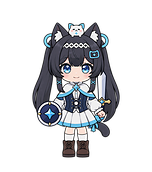
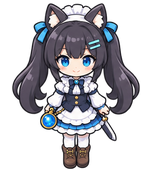
feat: cartoon slash effect and redrawn hero and companion
Presentation only; combat rules, saves and collision bodies are unchanged.

- quick slash drawn in the cartoon ink style: a crescent that sweeps open,
  holds and is eaten from its tail, speed lines, inked hit stars with chips,
  a short ground scuff, and a shorter white flash on struck enemies
- new hero and companion sprite sheets (light armour and travelling mage
  outfits, four directions): idle, walk, strike, channel and hurt poses at
  about twice the old height; the feet stay 24 below the sprite position so
  the body and every position calculation are unchanged
- actor frames stay on their own sheet textures instead of the shared atlas
- new UI avatars
- docs: docs/adventure/adventure-cel-art-2026-11-18.md and the module map

Verification: 13 related browser tests pass (slash, combat feedback,
hit-stop, sword line, raster player, art sample, rule 18, cartoon enemies).
The full suite was not run.

Claude-Session: https://claude.ai/code/session_01QdXVbEqokcWyzBe3edoYya

diff --git a/docs/adventure/adventure-cel-art-2026-11-18.md b/docs/adventure/adventure-cel-art-2026-11-18.md
@@ -1,0 +1,33 @@
+# 卡通描边特效样板与新人物（发布版本 0.9.2 之后，规则与存档不变）
+
+2026-11-18。项目主人觉得技能像「直接贴上去的特效」，人物「太敷衍、有点难看」，和 2D 独立精品游戏差距大。本次只改画面。
+
+## 迅斩样板（`static/cel-fx.mjs`）
+
+- 刀光改成和怪物一致的卡通风：深褐描边加金黄、奶白色块，正常混合，不再用发白的叠加光。
+- 节奏：约 0.05 秒扫开，停一下，再从尾部往刀尖被「吃掉」，不整体淡出。外侧两条速度线跟随。
+- 刀光画在攻击范围中段（最多 170），扫过被砍的敌人；以前画在最外圈。
+- 命中：带描边的十字星先放大再沿刀向缩掉，飞出几块碎片；敌人闪白缩短为 40 毫秒加伤害的四分之一（最多再加 25 毫秒）。
+- 刀尖扫地扬尘，留一道半秒淡去的划痕。
+- 只用于玩家和同行的迅斩（非融合）；回势斩等其他技能和减弱特效模式保持原样。
+- 项目主人看过前后对比后认可，下一步按同样方法改其他技能。
+
+## 新人物（`static/actor-art.mjs`、`art/player-traveller.png`、`art/companion-yui.png`）
+
+- 主角按剑系立绘标准重画，由依保留默认造型；两人各有轻甲、旅法两套装束。项目主人确认了概念图。
+- 每格 160×150，人物约 92 像素高（原来约 45），脚在精灵位置下方 24，与旧帧相同，所以碰撞框和所有位置计算不变（`fitPlayer`、`fitCompanion` 改设原点和偏移）。
+- 列：待机 4、走路 4、出招 4（挥出、收招）、吟唱 2、受击 2；行：轻甲、旅法各朝下／左／右／上。朝左由朝右镜像。
+- 每帧时长见 `FRAME_TIME`；出招、吟唱、受击不循环，停在最后一帧。施法和辅助类技能（`CHANNELLED`、`SUPPORT`）用吟唱，其余用出招。
+- 动作表帧直接留在各自的贴图上（`ACTOR_KEYS`、`actorKey`），不再复制进共享图集，避免图集过大。载入失败时仍回退到旧的矢量形象。
+- 界面头像同步换新。
+- 源图、提示词和切图脚本在 `foe-sprite-source\characters\`，脚本从环境变量读取密钥。
+
+## 测试
+
+只跑了相关的浏览器用例（迅斩、受击反馈、顿帧、剑系、动作表、规则 18、卡通怪物等 13 个），全部通过；「主角动作表」用例改为检查 160 宽的帧、贴图名和原点。没有跑全量。
+
+## 没做的
+
+- 围巾、头发、裙摆还不会随移动持续甩动；走路只有 4 个关键姿势；突进没有专用姿势。
+- 其他技能还没改成描边画风。
+- 只在软件渲染下看过。

diff --git a/docs/README.md b/docs/README.md
@@ -46,6 +46,7 @@
 - [走出口选路与首领圣所](adventure/adventure-exits-sanctuary-2026-11-16.md)
 - [怪物卡通化与攻击动作](adventure/adventure-cartoon-foes-2026-11-16.md)
 - [突进手动线与一键连招](adventure/adventure-dash-line-2026-11-16.md)
+- [卡通描边特效样板与新人物](adventure/adventure-cel-art-2026-11-18.md)
 
 ## 审计与方案
 
